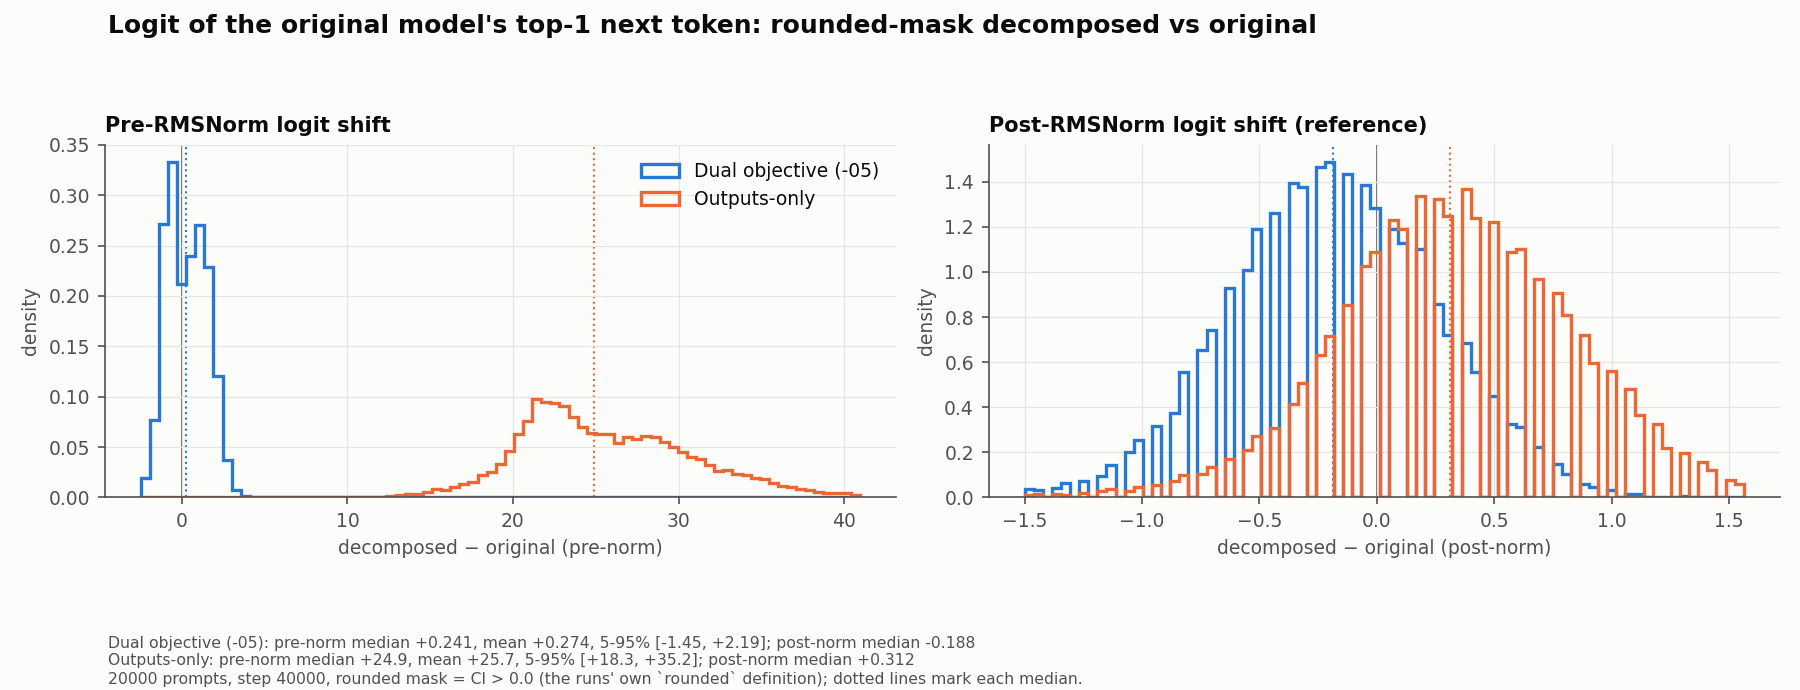
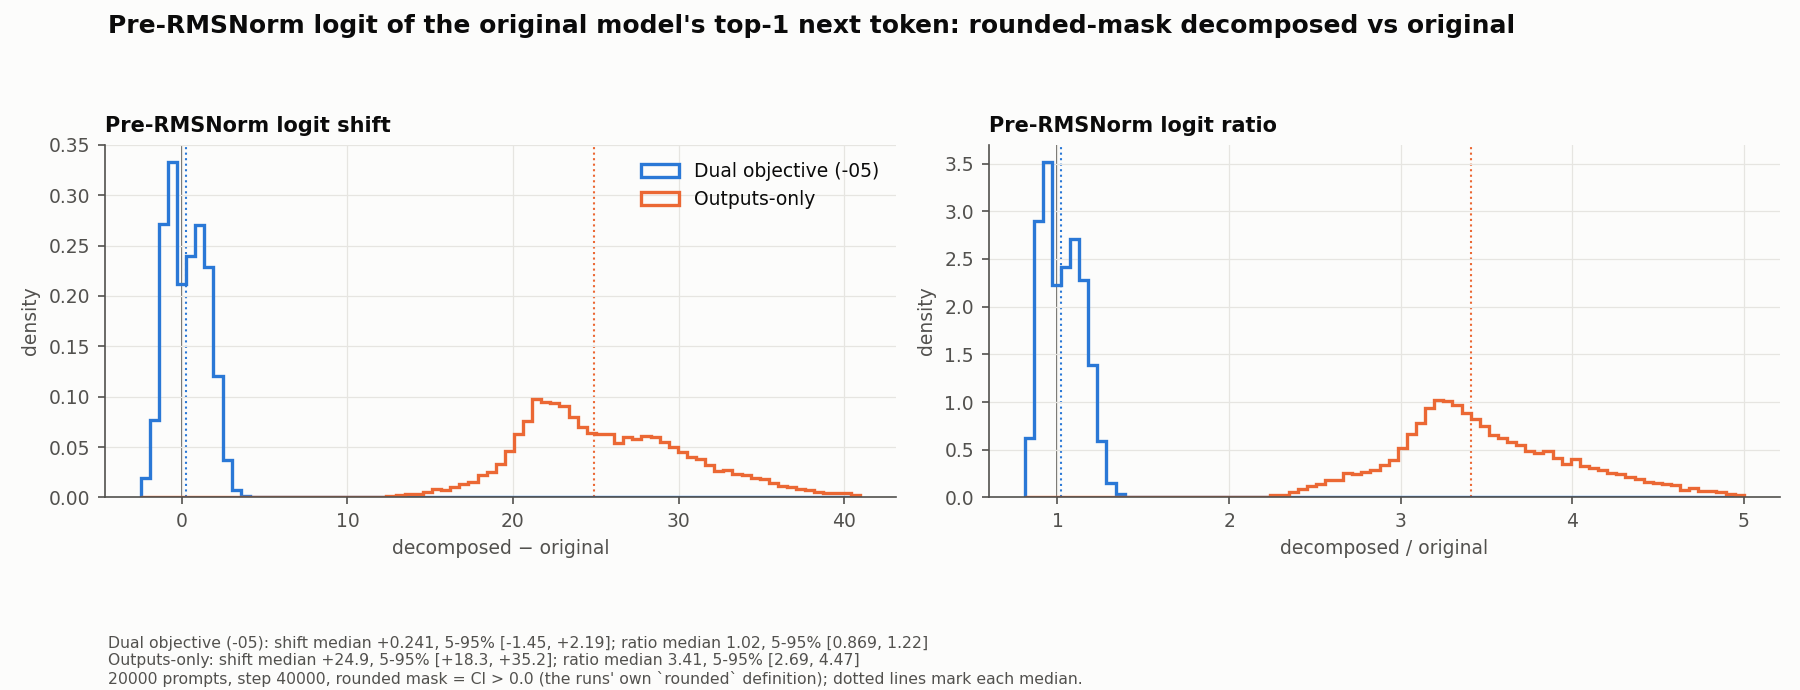
notes(dual_objective): logit figure shows the pre-norm ratio, not the post-norm shift
The post-RMSNorm panel is replaced by the pre-norm RATIO (decomposed /
original), which is well defined here: the top-1 token's pre-norm logit is
positive on every prompt (min 5.05 over the pool).

  dual -05      ratio median 1.02, 5-95% [0.869, 1.22]
  outputs-only  ratio median 3.41, 5-95% [2.69, 4.47]

So outputs-only does not merely add a constant -- it scales the pre-norm logit
by about 3.4x, and the two distributions do not overlap.

diff --git a/notes/dual_objective/addsub-all-layers/plot_logit_shift.py b/notes/dual_objective/addsub-all-layers/plot_logit_shift.py
@@ -9,8 +9,10 @@ model minus its logit in the original model — taken PRE-RMSNORM (the residual 
 last block dotted with the unembedding row), so a uniform rescaling of the residual shows up
 instead of being normalized away.
 
-Two panels: the pre-norm shift, and the ordinary post-norm shift for reference. A decomposed
-model that reproduces the original exactly sits on 0 in both.
+Two panels, both pre-norm: the shift (decomposed − original) and the ratio
+(decomposed / original). A decomposed model that reproduces the original exactly sits on 0
+in the first and 1 in the second. The ratio is well defined here because the top-1 token's
+pre-norm logit is positive on every prompt (min 5.05 over the pool).
 """
 
 import json
@@ -58,12 +60,19 @@ def main() -> None:
     )
     fig, axes = plt.subplots(1, 2, figsize=(12, 4.6))
     panels = (
-        ("pre", "Pre-RMSNorm logit shift", "decomposed − original (pre-norm)"),
-        ("post", "Post-RMSNorm logit shift (reference)", "decomposed − original (post-norm)"),
+        ("diff", "Pre-RMSNorm logit shift", "decomposed − original", 0.0),
+        ("ratio", "Pre-RMSNorm logit ratio", "decomposed / original", 1.0),
     )
-    for ax, (prefix, title, xlabel) in zip(axes, panels, strict=True):
+    for ax, (kind, title, xlabel, unity) in zip(axes, panels, strict=True):
         shifts = [
-            (n, c[f"{prefix}_decomposed"] - c[f"{prefix}_original"], col) for n, c, _, col in runs
+            (
+                n,
+                c["pre_decomposed"] - c["pre_original"]
+                if kind == "diff"
+                else c["pre_decomposed"] / c["pre_original"],
+                col,
+            )
+            for n, c, _, col in runs
         ]
         lo = min(np.percentile(s, 0.5) for _, s, _ in shifts)
         hi = max(np.percentile(s, 99.5) for _, s, _ in shifts)
@@ -73,7 +82,7 @@ def main() -> None:
                 shift, bins=bins, histtype="step", lw=1.6, color=color, label=name, density=True
             )
             ax.axvline(np.median(shift), color=color, lw=1, ls=":", zorder=0)
-        ax.axvline(0, color=INK_2, lw=0.8, zorder=0)
+        ax.axvline(unity, color=INK_2, lw=0.8, zorder=0)
         ax.set_title(title, loc="left", color=INK, fontsize=10, fontweight="semibold")
         ax.set_xlabel(xlabel)
         ax.set_ylabel("density")
@@ -84,15 +93,16 @@ def main() -> None:
     lines = []
     for name, cols, _meta, _ in runs:
         s = cols["pre_decomposed"] - cols["pre_original"]
-        q = cols["post_decomposed"] - cols["post_original"]
+        r = cols["pre_decomposed"] / cols["pre_original"]
         lines.append(
-            f"{name}: pre-norm median {np.median(s):+.3g}, mean {s.mean():+.3g}, "
-            f"5-95% [{np.percentile(s, 5):+.3g}, {np.percentile(s, 95):+.3g}]; "
-            f"post-norm median {np.median(q):+.3g}"
+            f"{name}: shift median {np.median(s):+.3g}, 5-95% [{np.percentile(s, 5):+.3g}, "
+            f"{np.percentile(s, 95):+.3g}]; ratio median {np.median(r):.3g}, "
+            f"5-95% [{np.percentile(r, 5):.3g}, {np.percentile(r, 95):.3g}]"
         )
     meta0 = runs[0][2]
     fig.suptitle(
-        "Logit of the original model's top-1 next token: rounded-mask decomposed vs original",
+        "Pre-RMSNorm logit of the original model's top-1 next token: rounded-mask decomposed "
+        "vs original",
         x=0.06,
         ha="left",
         color=INK,
